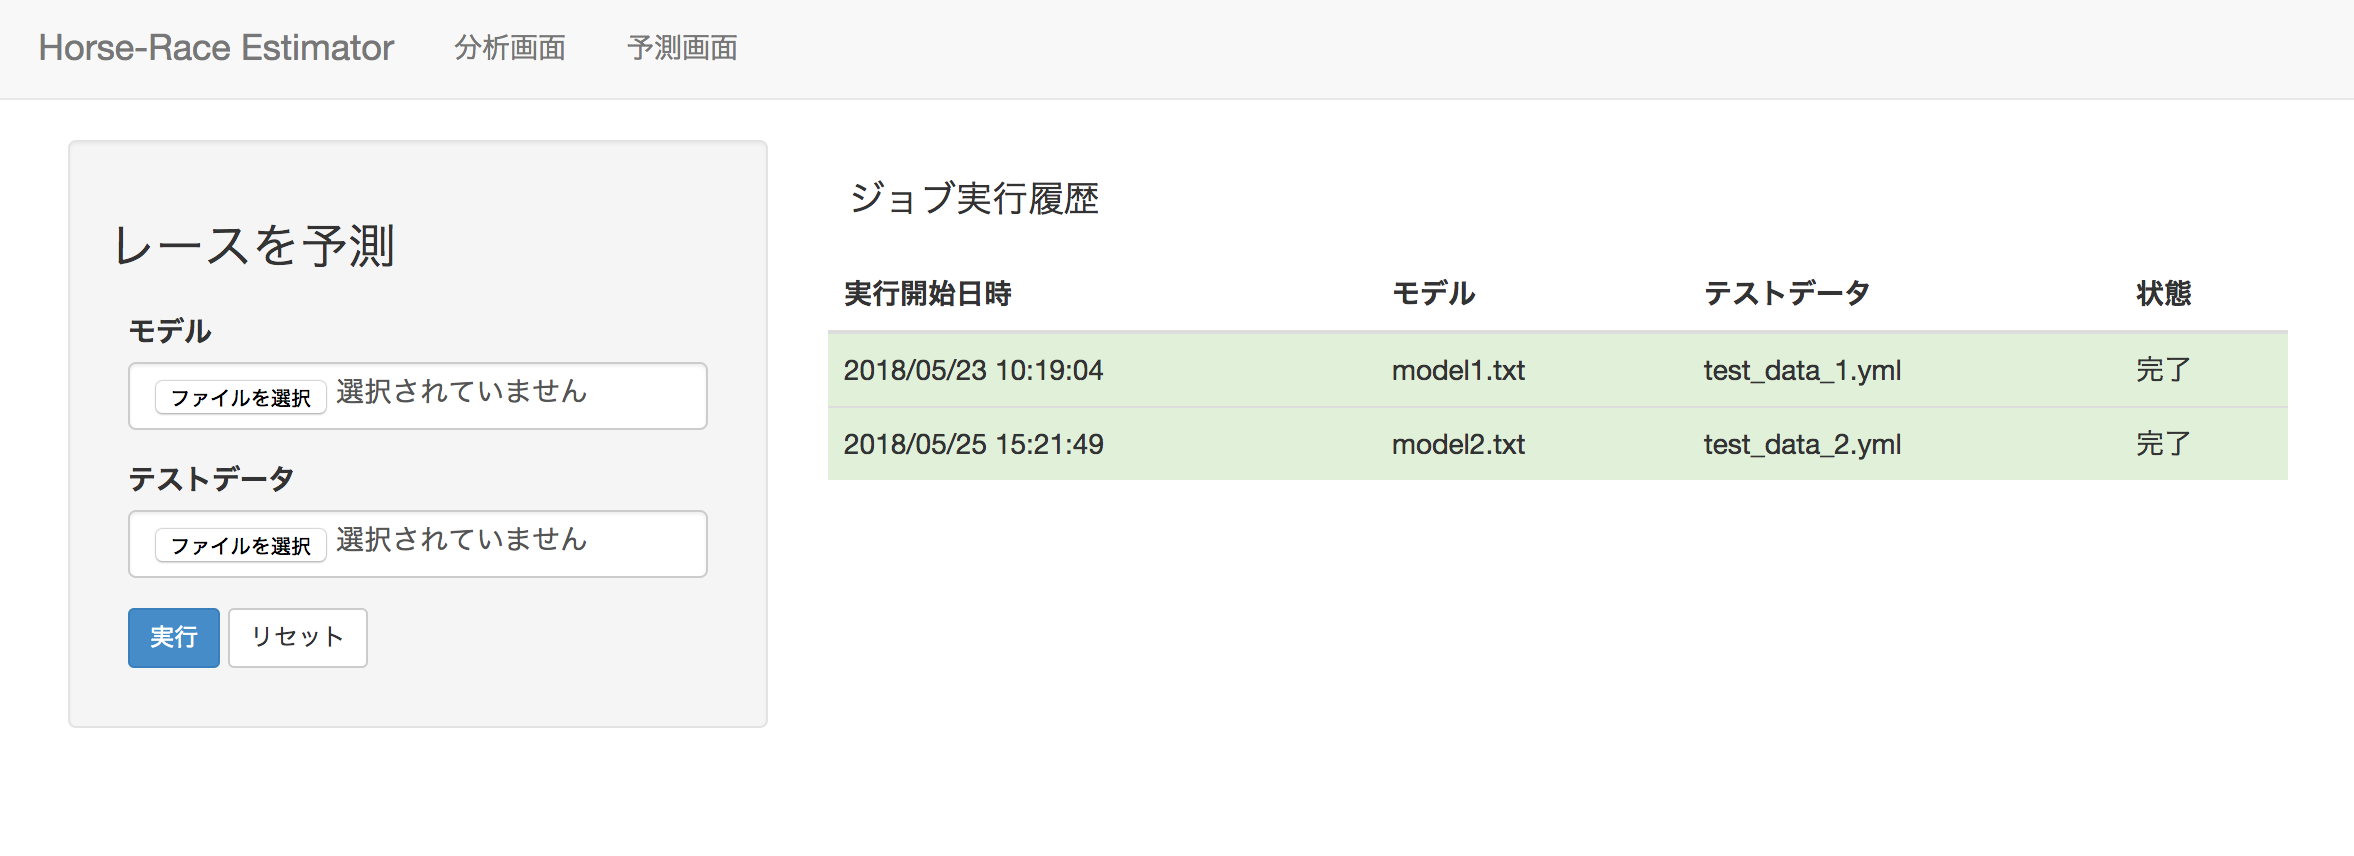
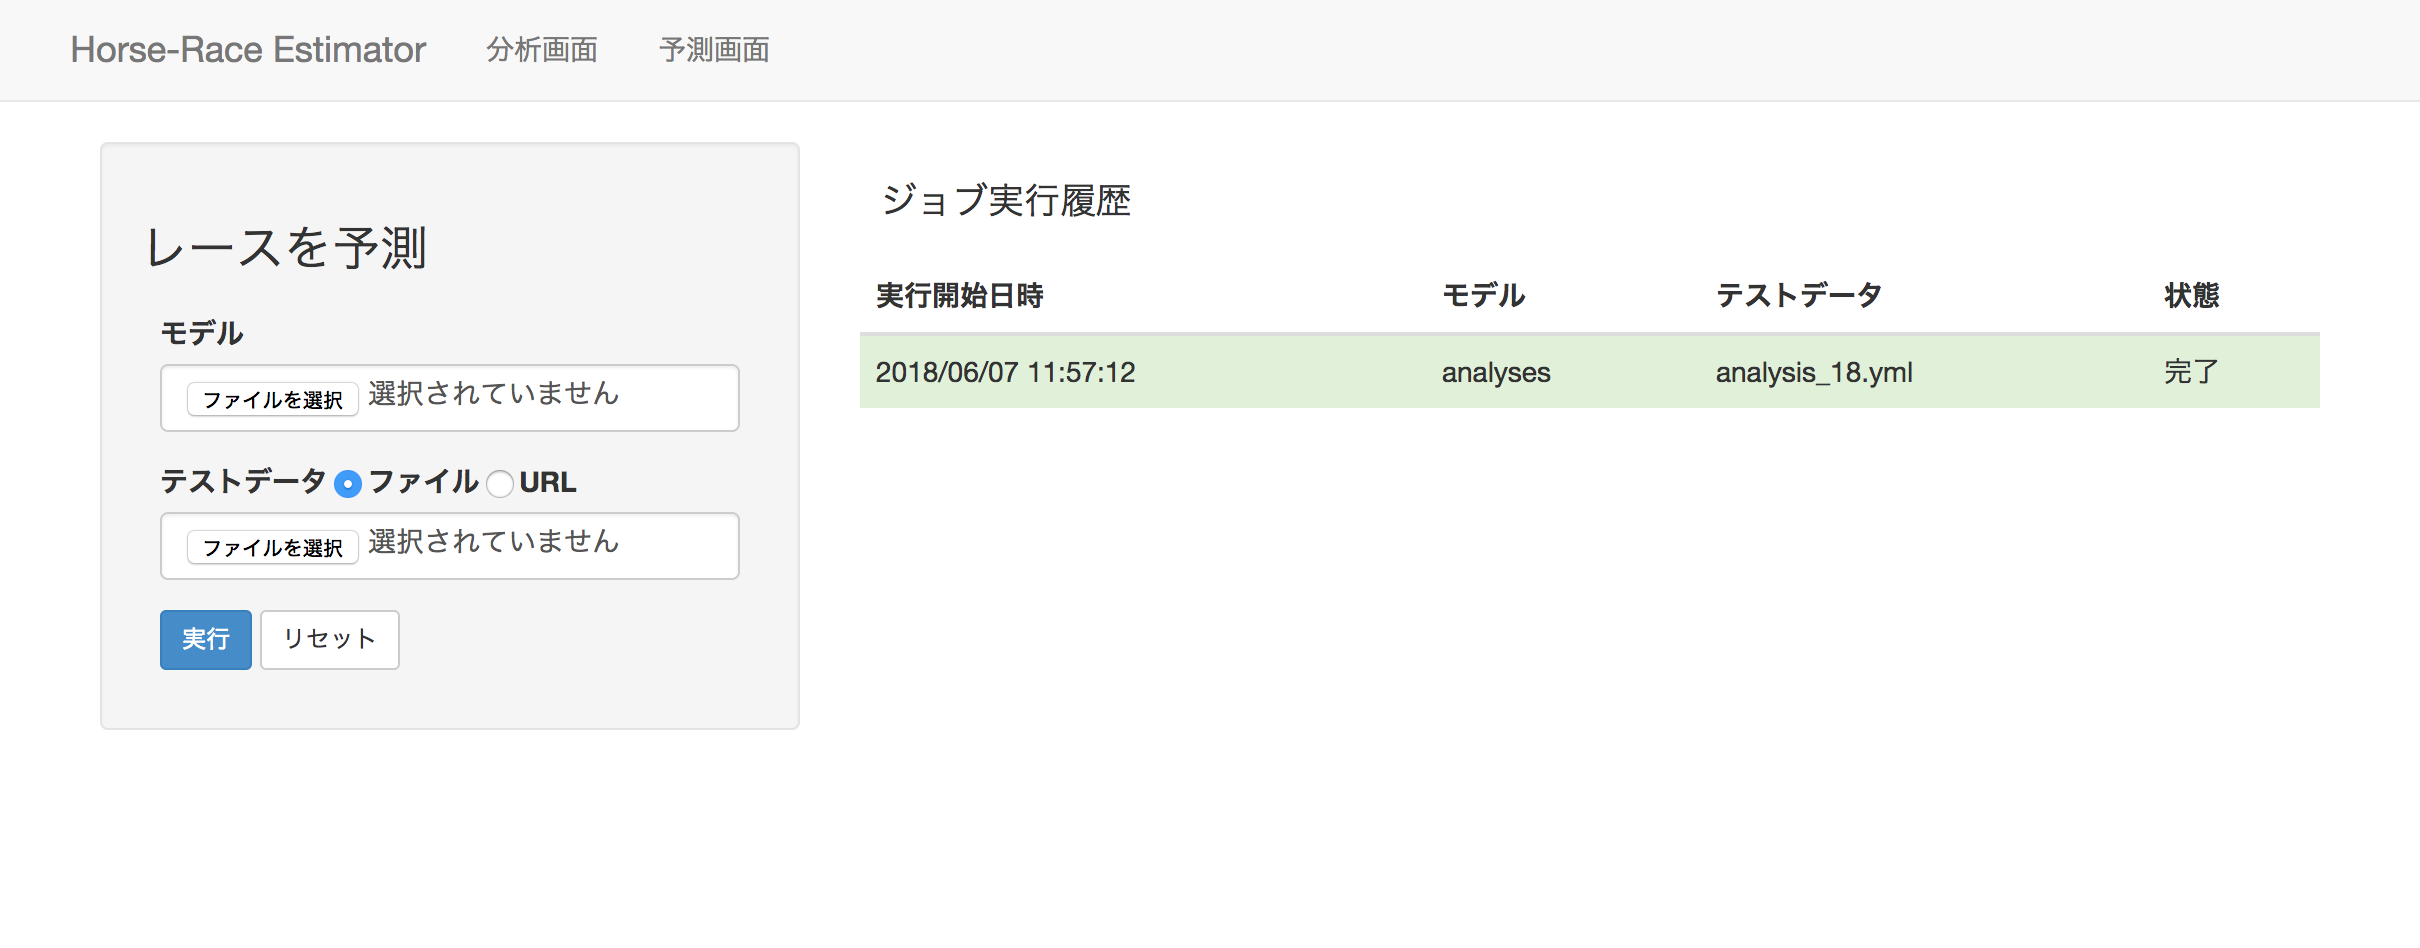
Alterf create test data (#144)
* create requirement spec

* update external spec

* update internal spec

* update version

diff --git a/horse-race_estimator/conf.py b/horse-race_estimator/conf.py
@@ -58,9 +58,9 @@ author = u'Leonis0813'
 # built documents.
 #
 # The short X.Y version.
-version = u'2018.04.03'
+version = u'2018.06.25'
 # The full version, including alpha/beta/rc tags.
-release = u'2018.04.03'
+release = u'2018.06.25'
 
 # The language for content autogenerated by Sphinx. Refer to documentation
 # for a list of supported languages.

diff --git a/horse-race_estimator/alterf/internal.rst b/horse-race_estimator/alterf/internal.rst
@@ -100,8 +100,9 @@ MVCモデルを利用する
 2. PredictionViewがPredictionsControllerのexecuteメソッドを実行する
 3. PredictionsControllerがPredictionを生成してジョブ情報を保存する
 4. PredictionsControllerが非同期でPredictionJobのperform_laterを実行した後，利用者に分析が実行されたことを通知する
-5. 分析が完了したらPredictionJobがPredictionのstate属性をcompletedに更新する
-6. PredictionMailerのfinishedを実行して利用者にメールを送信する
+5. URLが指定された場合は，そのURLにアクセスしてテストデータを取得，変換する
+6. 分析が完了したらPredictionJobがPredictionのstate属性をcompletedに更新する
+7. PredictionMailerのfinishedを実行して利用者にメールを送信する
 
 .. _alt-int-seq-show-predictions:
 

diff --git a/horse-race_estimator/alterf/requirements.rst b/horse-race_estimator/alterf/requirements.rst
@@ -7,6 +7,7 @@
 - :ref:`alt-req-show-analyses`
 - :ref:`alt-req-execute-prediction`
 - :ref:`alt-req-show-predictions`
+- :ref:`alt-req-create-test-data`
 
 *ユースケース図*
 
@@ -66,3 +67,15 @@
 1. 利用者はシステムに予測情報の確認を要求する
 2. システムは予測情報を取得する
 3. システムは利用者に予測情報を表示する
+
+.. _alt-req-create-test-data:
+
+テストデータを作成する
+----------------------
+
+- 与えられたデータから指定のフォーマットに変換したレース情報を作成する
+
+*ユースケースシナリオ*
+
+1. システムは変換前のレース情報を取得する
+2. システムはレース情報を変換する

diff --git a/horse-race_estimator/alterf/external.rst b/horse-race_estimator/alterf/external.rst
@@ -83,6 +83,7 @@
 
 - 画面左部にデータ入力フォームが表示される
 
+  - テストデータはファイルを指定するか、データが表示されているサイトのURLを指定できる
   - 実行ボタンを押下すると予測が開始される
   - 予測が終了すると登録されているメールアドレスに通知される
 

diff --git a/CHANGELOG.md b/CHANGELOG.md
@@ -1,3 +1,6 @@
+# 2018/06/25
+- [Alterf] update version to 3.1.0
+
 # 2018/06/05
 - [Alterf] update version to 3.0.0
 
